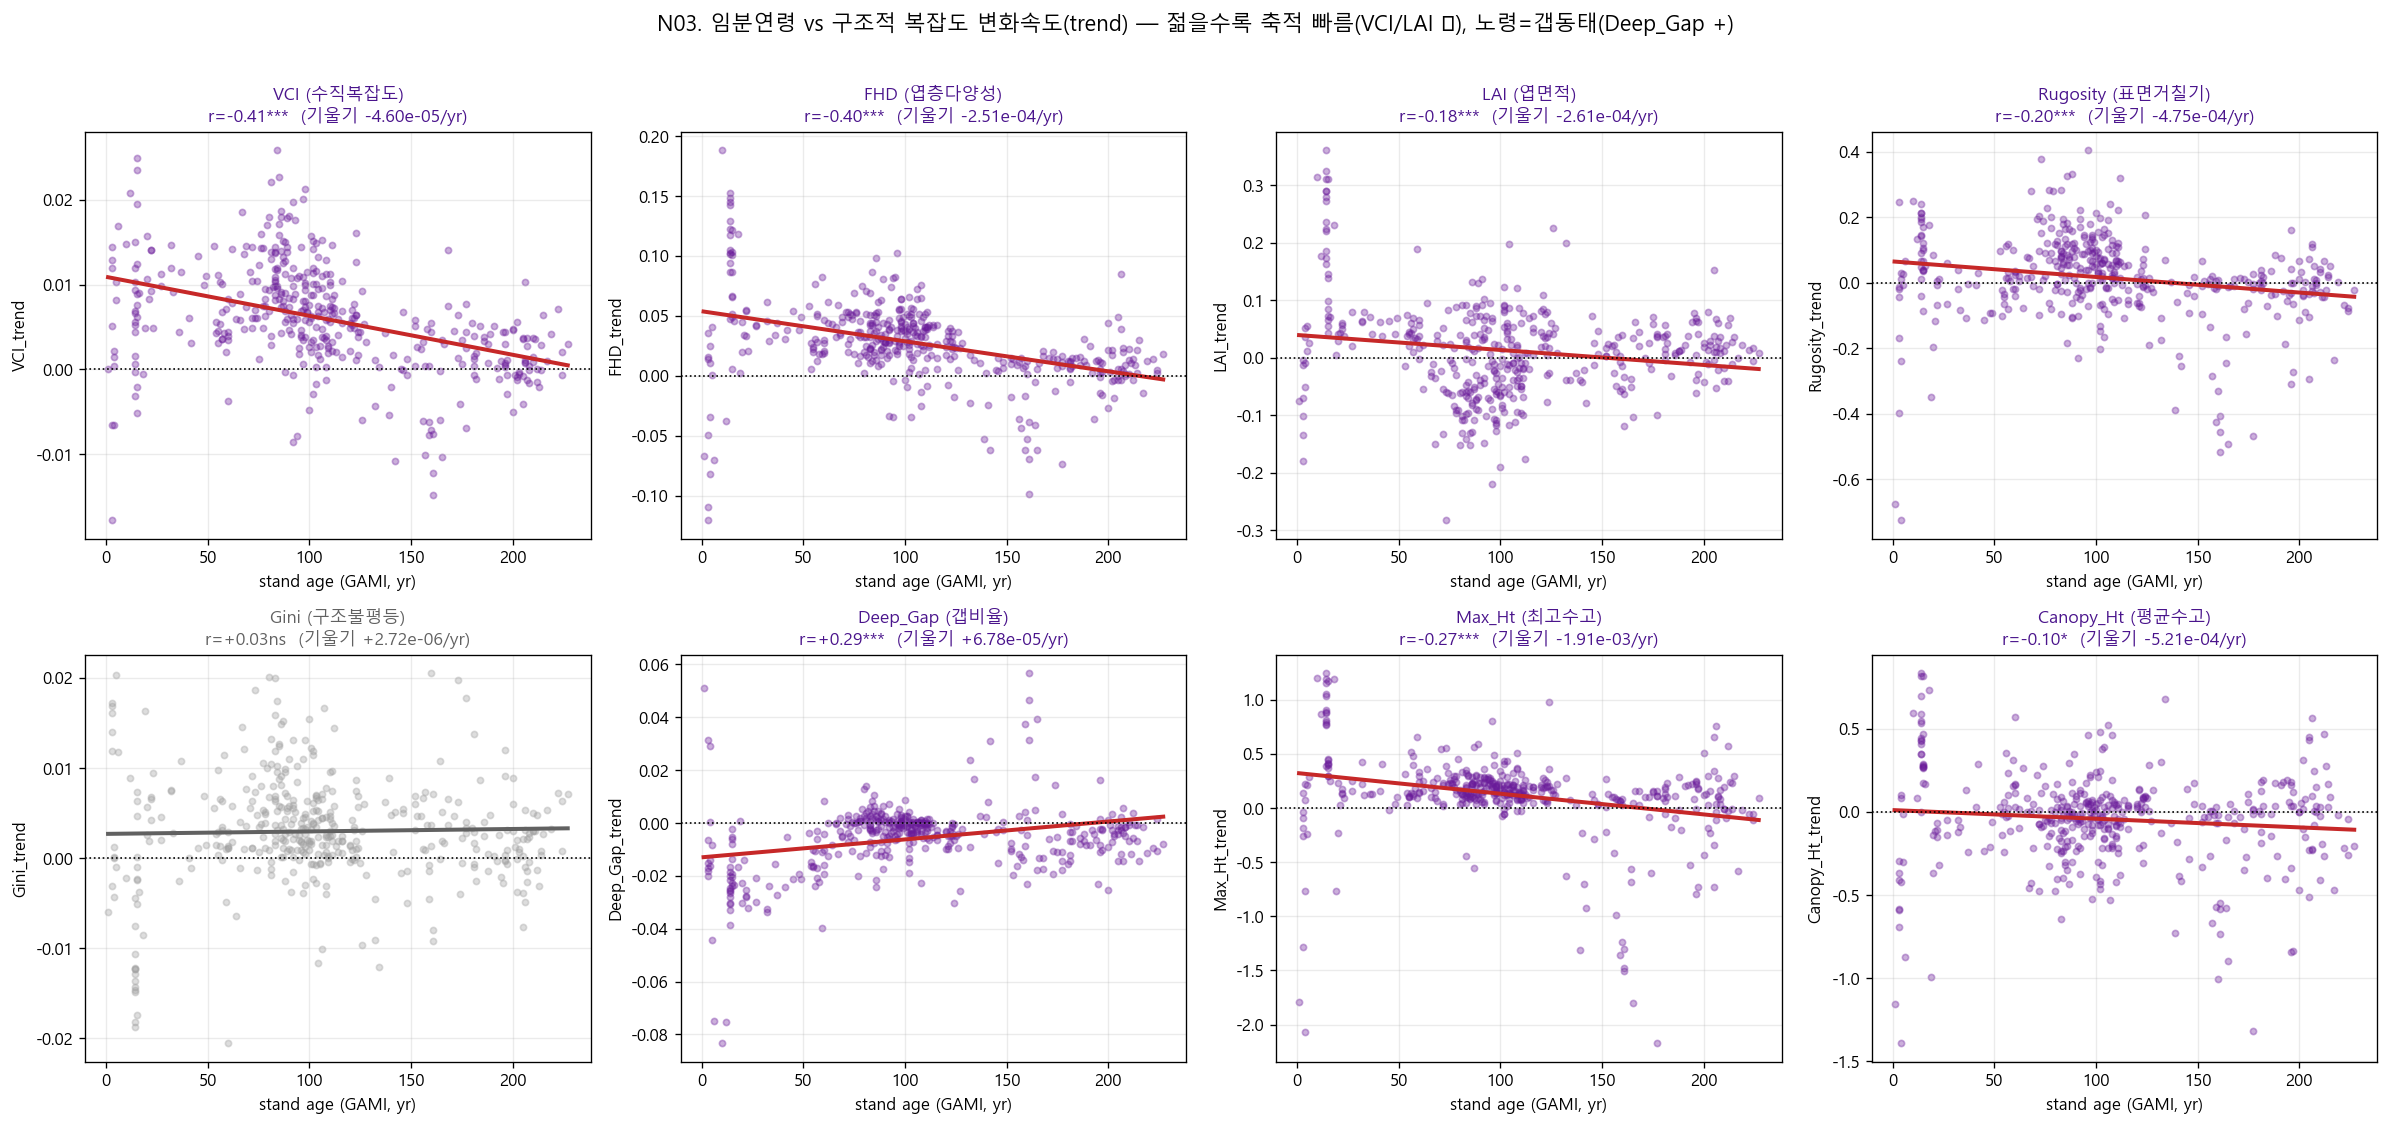
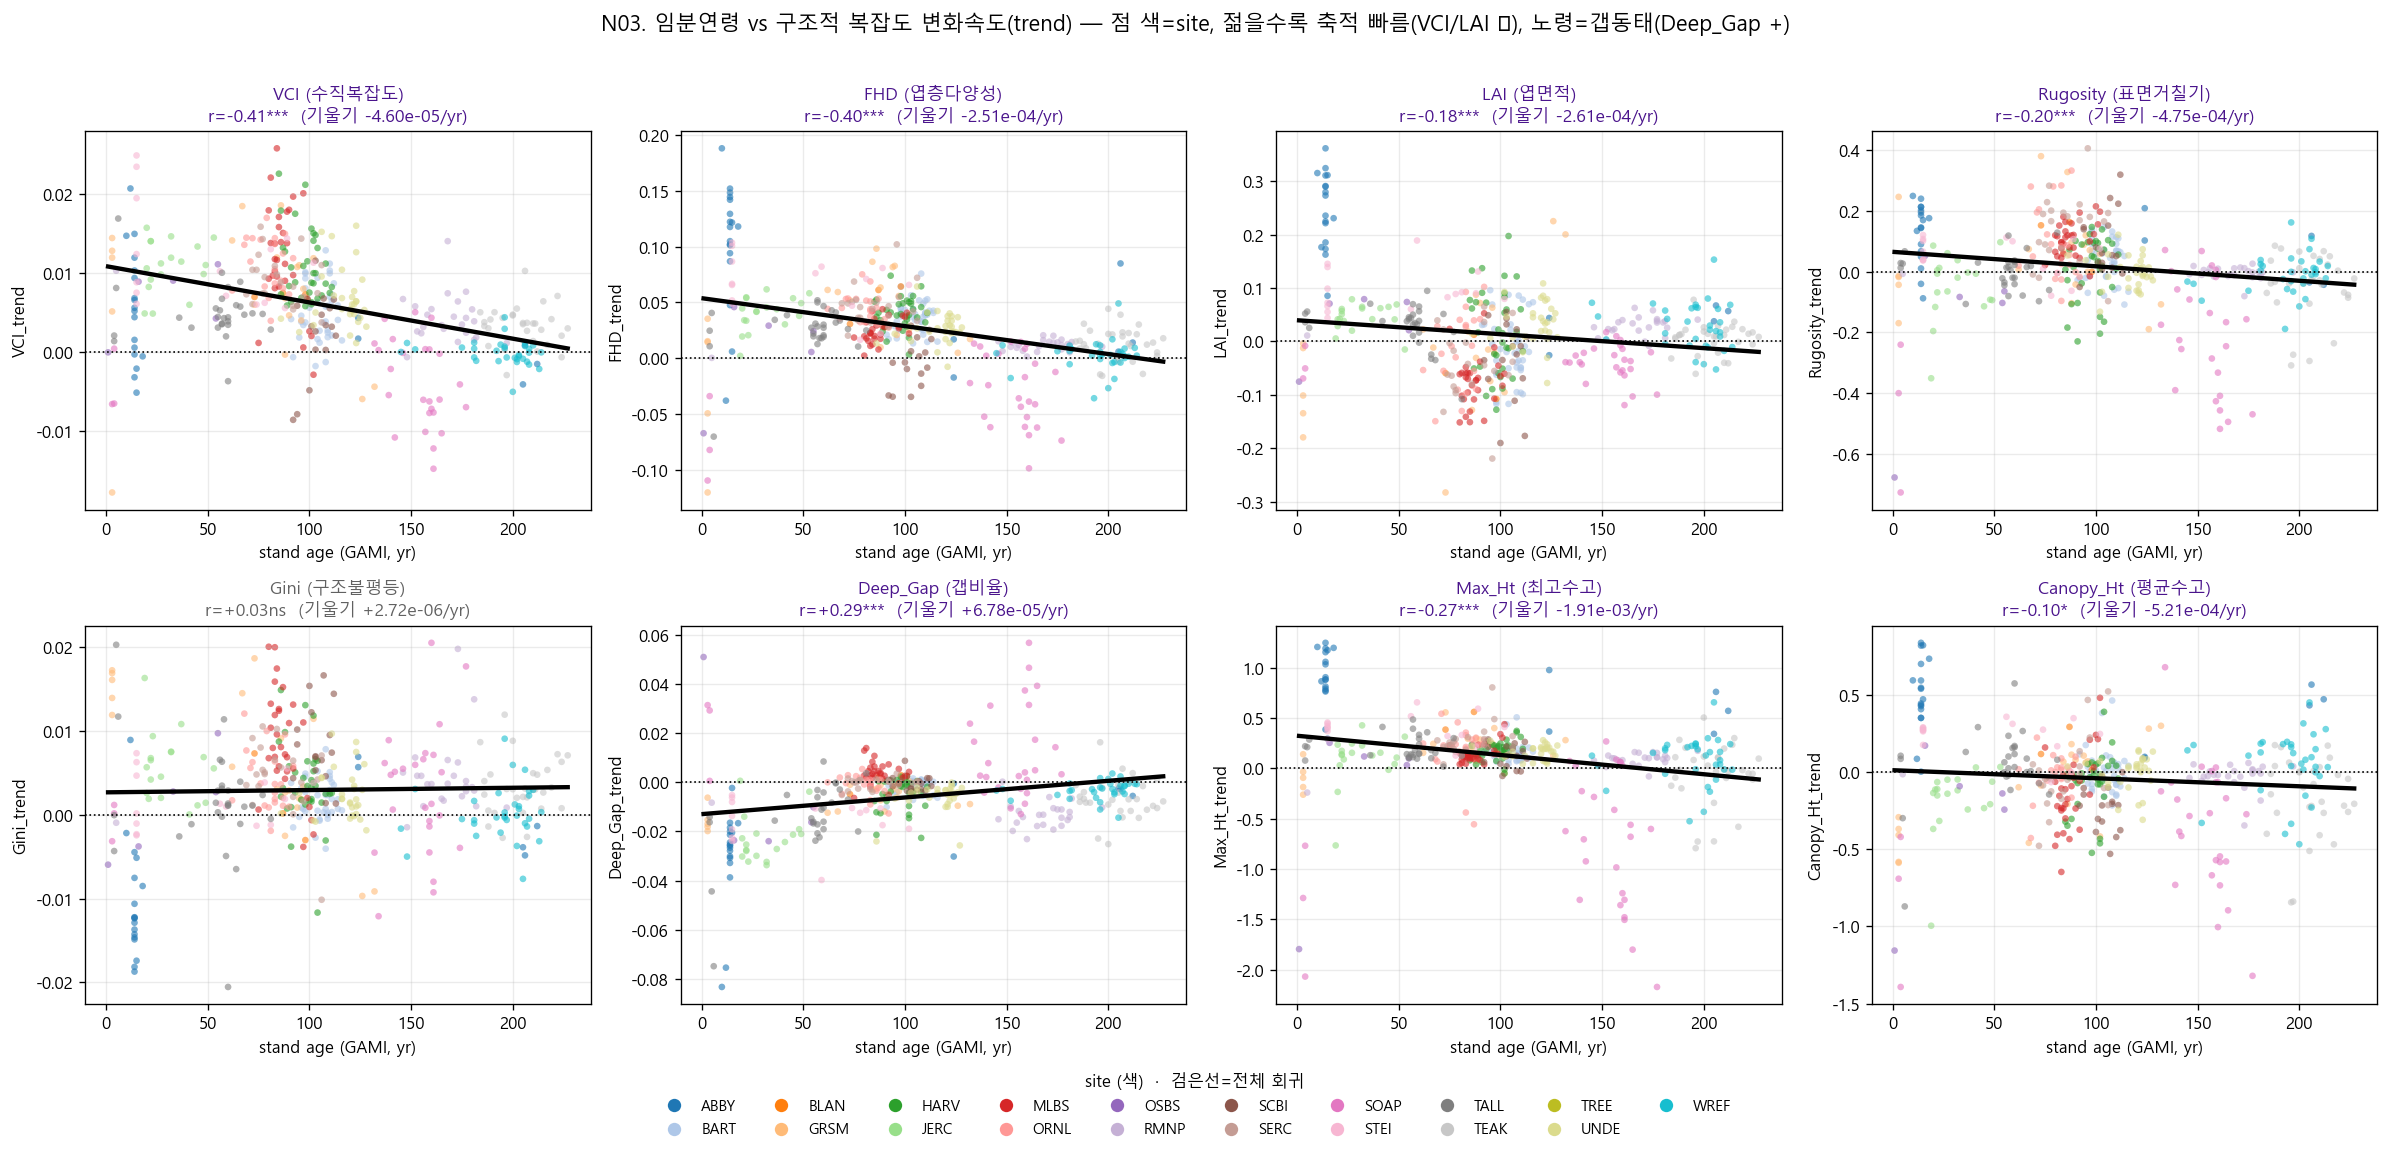
N03: color scatter points by site
Site coloring shows the age gradient is partly between-site (ABBY young/fast,
WREF-TEAK old/plateau, eastern sites mid) - motivates the site-random-effect
mixed model as the conservative estimate. Overall (black) regression retained.

diff --git a/NEON_v2/scripts/obj23/142_stand_age_figures.py b/NEON_v2/scripts/obj23/142_stand_age_figures.py
@@ -37,19 +37,25 @@ fig.tight_layout(); fig.savefig(f"{F}/N02_age_crossval.png",dpi=120,bbox_inches=
 df=pd.read_csv(f"{D}/FINAL_v2_pooled.csv").merge(
    pd.read_csv(f"{D}/plot_stand_age_gami.csv")[['plotID','stand_age_gami']],on='plotID',how='left')
 df=df[(df.sample_coverage>=0.9)&df.stand_age_gami.notna()].copy(); A='stand_age_gami'
+sites=sorted(df.siteID.unique())
+cmap=plt.get_cmap('tab20'); scol={s:cmap(i%20) for i,s in enumerate(sites)}
 METR=[('VCI_trend','VCI (수직복잡도)'),('FHD_trend','FHD (엽층다양성)'),('LAI_trend','LAI (엽면적)'),
       ('Rugosity_trend','Rugosity (표면거칠기)'),('Gini_trend','Gini (구조불평등)'),
       ('Deep_Gap_trend','Deep_Gap (갭비율)'),('Max_Ht_trend','Max_Ht (최고수고)'),('Canopy_Ht_trend','Canopy_Ht (평균수고)')]
 fig,axes=plt.subplots(2,4,figsize=(20,9.5))
 for ax,(col,lab) in zip(axes.ravel(),METR):
-    dd=df[[A,col]].dropna(); x=dd[A].values; y=dd[col].values
+    dd=df[[A,col,'siteID']].dropna(); x=dd[A].values; y=dd[col].values
+    ax.scatter(x,y,s=16,alpha=.6,c=[scol[s] for s in dd.siteID],edgecolors='none')
     sl,ic,r,p,se=st.linregress(x,y); sig=p<0.05
-    ax.scatter(x,y,s=14,alpha=.35,color=('#6a1b9a' if sig else '#9e9e9e'))
-    xx=np.linspace(x.min(),x.max(),50); ax.plot(xx,ic+sl*xx,'-',color=('#c62828' if sig else '#616161'),lw=2.4)
+    xx=np.linspace(x.min(),x.max(),50); ax.plot(xx,ic+sl*xx,'-',color='k',lw=2.6)  # overall fit
     ax.axhline(0,color='k',ls=':',lw=1)
     star='***' if p<0.001 else '**' if p<0.01 else '*' if p<0.05 else 'ns'
     ax.set_title(f"{lab}\nr={r:+.2f}{star}  (기울기 {sl:+.2e}/yr)",fontsize=10.5,color=('#4a148c' if sig else '#616161'))
     ax.set_xlabel("stand age (GAMI, yr)"); ax.set_ylabel(col); ax.grid(alpha=.25)
-fig.suptitle("N03. 임분연령 vs 구조적 복잡도 변화속도(trend) — 젊을수록 축적 빠름(VCI/LAI −), 노령=갭동태(Deep_Gap +)",fontsize=13)
-fig.tight_layout(rect=[0,0,1,0.97]); fig.savefig(f"{F}/N03_age_vs_structural_change.png",dpi=120,bbox_inches='tight'); plt.close()
-print("saved N03")
+from matplotlib.lines import Line2D
+handles=[Line2D([0],[0],marker='o',ls='',mfc=scol[s],mec='none',ms=8,label=s) for s in sites]
+fig.legend(handles=handles,loc='lower center',ncol=10,fontsize=9,frameon=False,
+           title="site (색)  ·  검은선=전체 회귀",bbox_to_anchor=(0.5,-0.02))
+fig.suptitle("N03. 임분연령 vs 구조적 복잡도 변화속도(trend) — 점 색=site, 젊을수록 축적 빠름(VCI/LAI −), 노령=갭동태(Deep_Gap +)",fontsize=13)
+fig.tight_layout(rect=[0,0.05,1,0.97]); fig.savefig(f"{F}/N03_age_vs_structural_change.png",dpi=120,bbox_inches='tight'); plt.close()
+print("saved N03 (colored by site)")